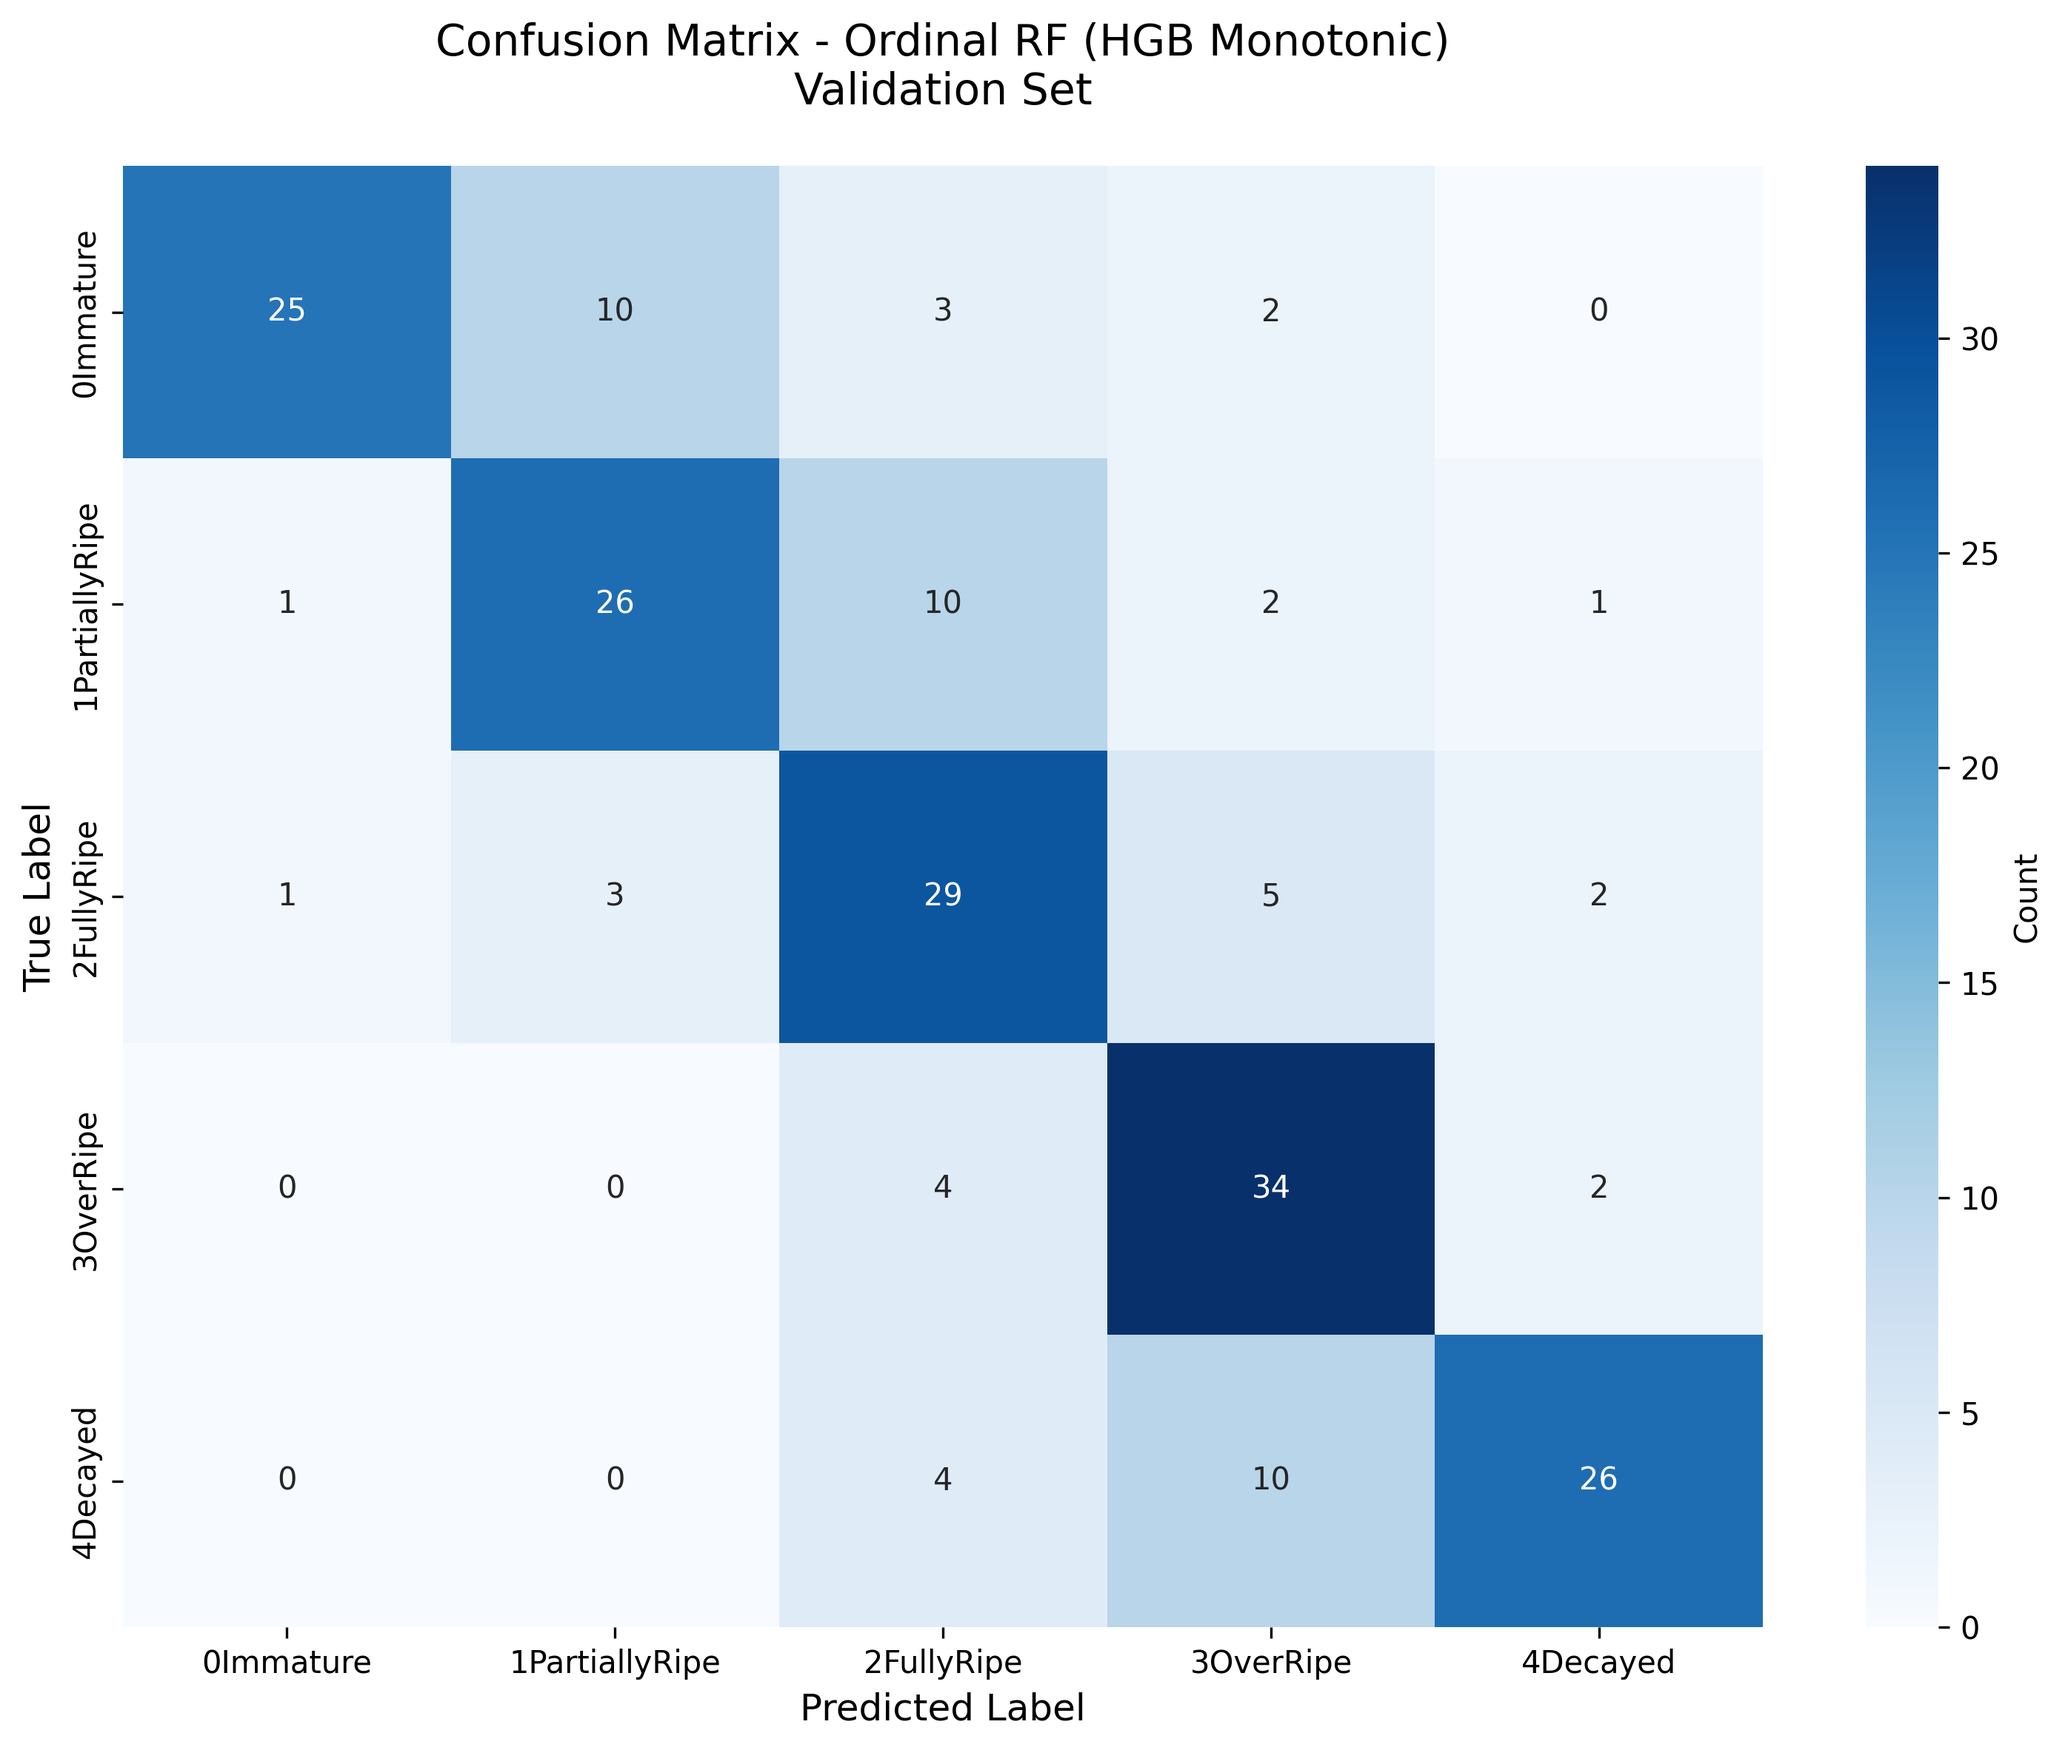
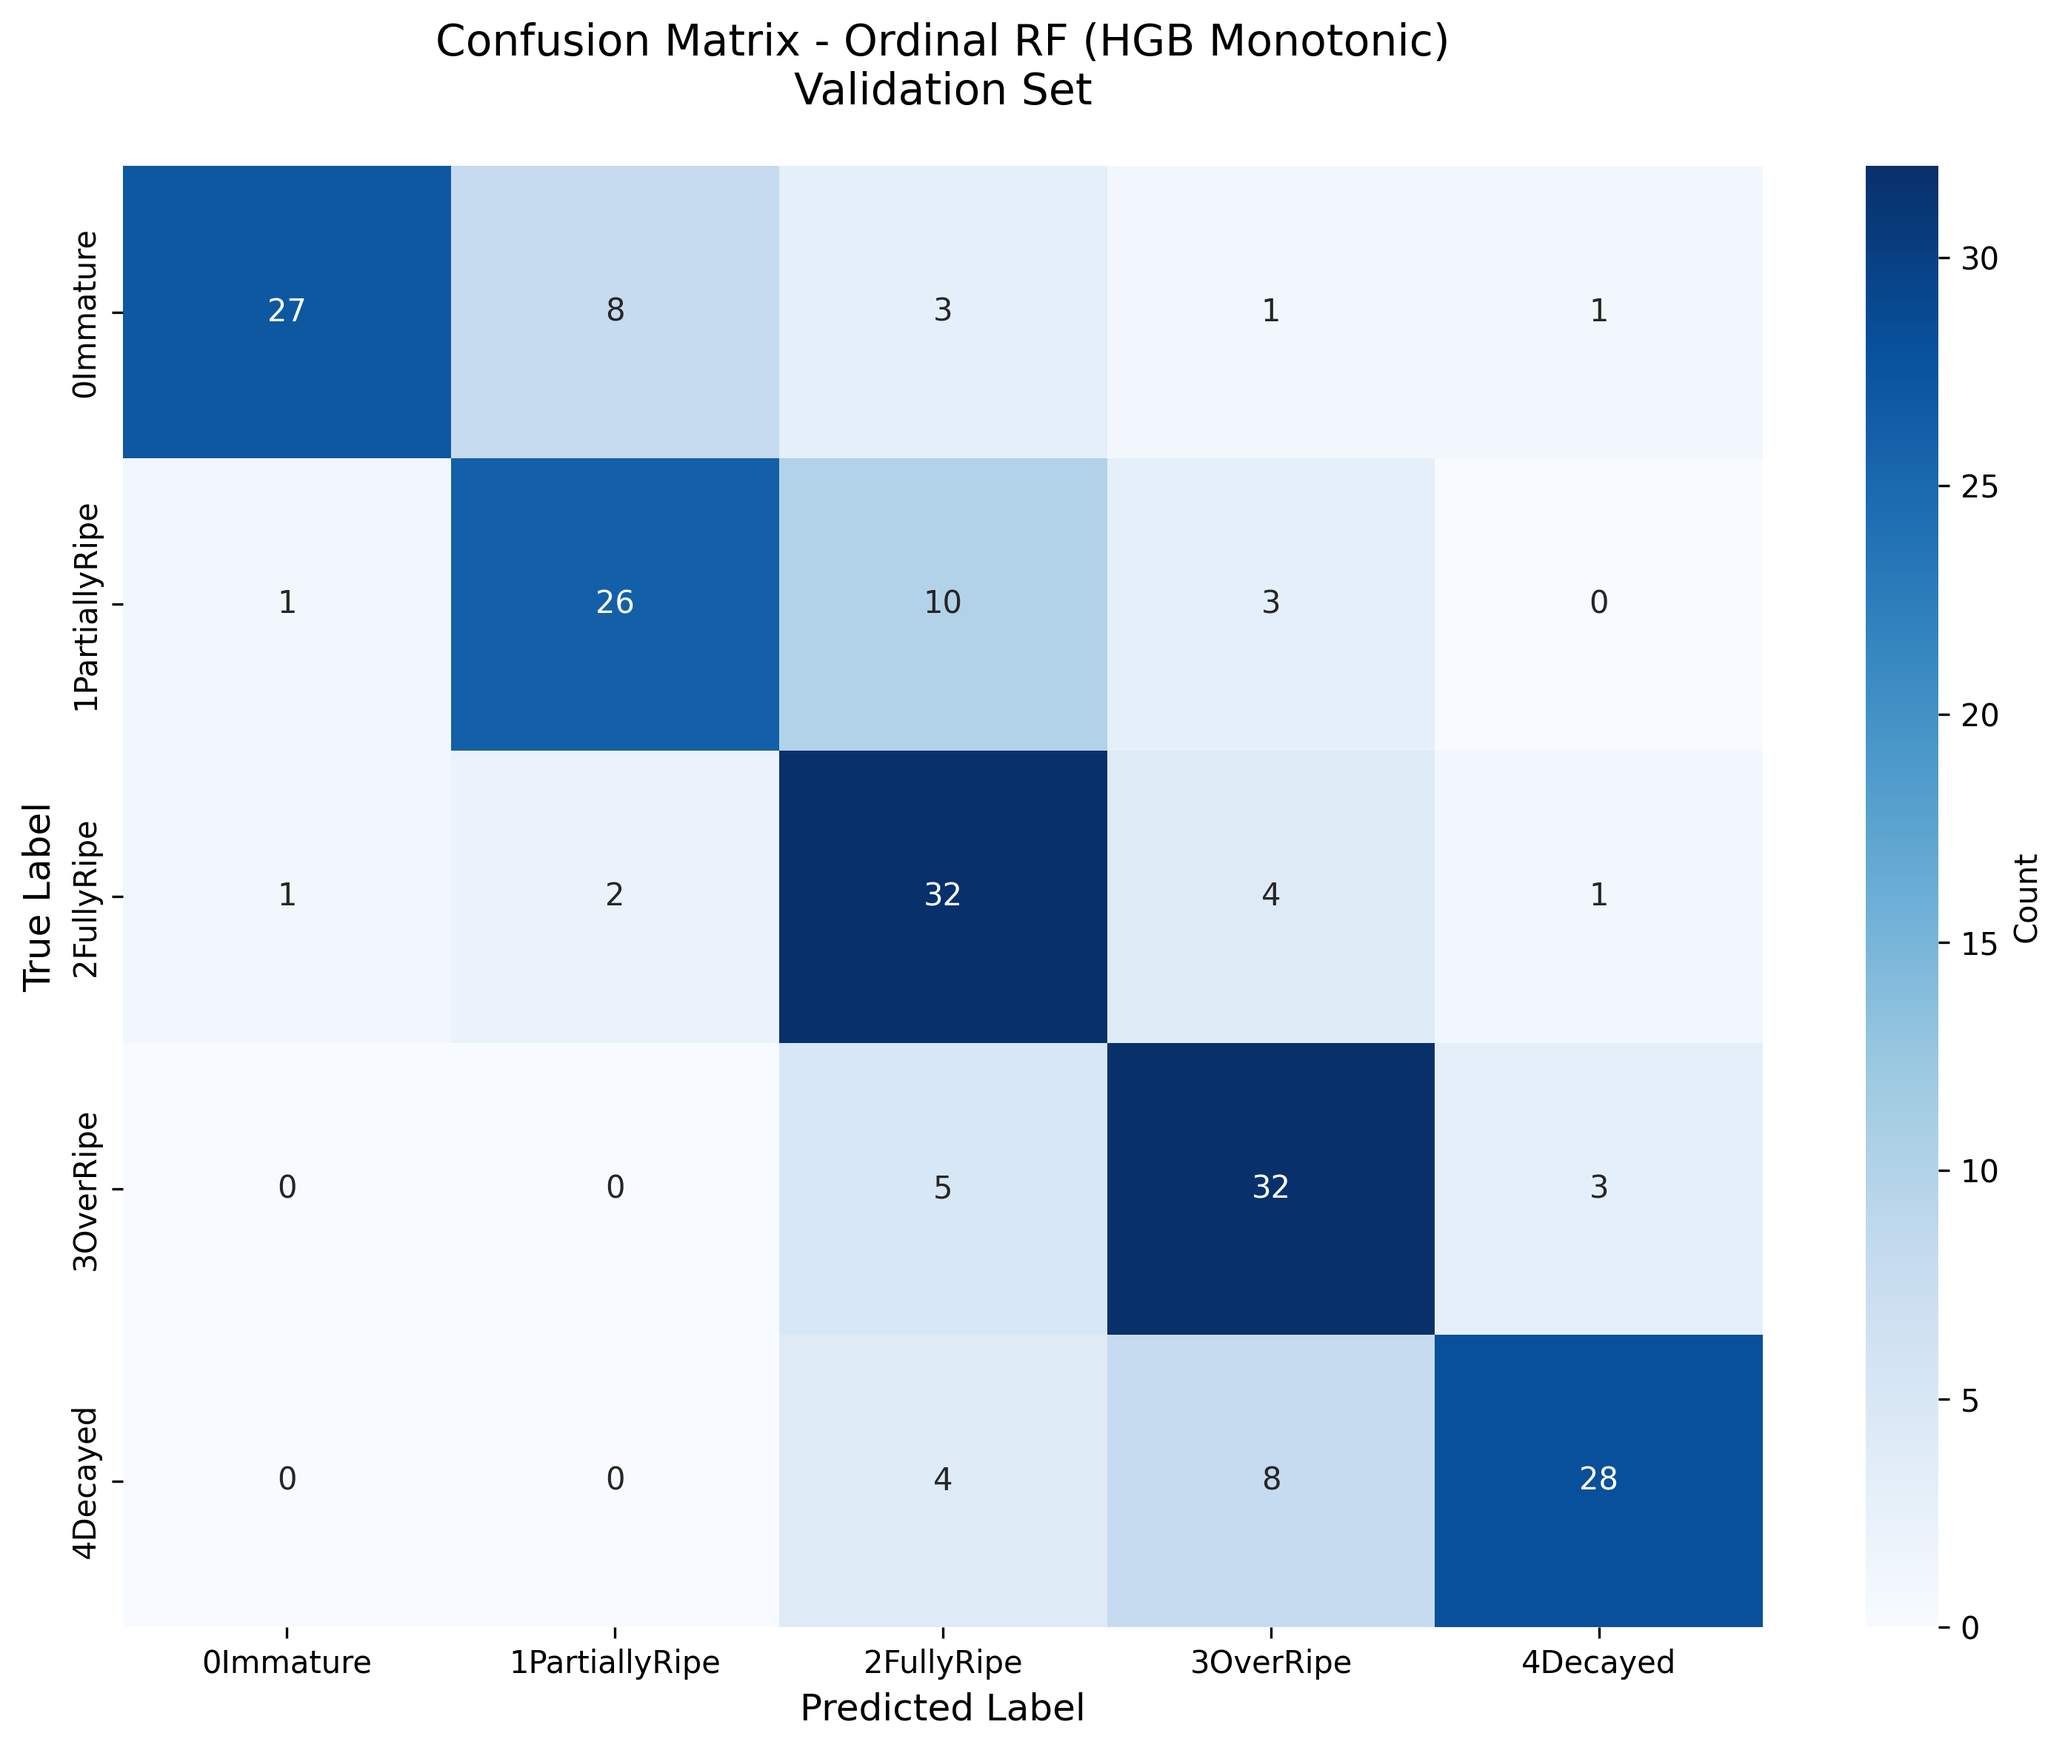
settled on the thre ordinal models to use

diff --git a/code/model_training/ordinal_gb_lightgbm.py b/code/model_training/ordinal_gb_lightgbm.py
@@ -52,25 +52,16 @@ def train_with_lightgbm(X: np.ndarray, y: np.ndarray, num_iterations: int = 100,
     # Create LightGBM dataset
     train_data = lgb.Dataset(X_scaled, label=y)
     
-    # Parameters for multiclass - optimized for better performance
+    # Simple, effective parameters for multiclass
     params = {
         'objective': 'multiclass',
         'num_class': len(np.unique(y)),
         'metric': 'multi_logloss',
         'learning_rate': learning_rate,
-        'num_leaves': 63,  # Increased for more complex trees
-        'max_depth': 8,  # Deeper trees
-        'min_data_in_leaf': 10,  # Minimum samples per leaf
-        'feature_fraction': 0.8,  # Use 80% of features per tree
-        'bagging_fraction': 0.8,  # Use 80% of samples per iteration
-        'bagging_freq': 5,  # Bagging every 5 iterations
-        'lambda_l1': 0.1,  # L1 regularization
-        'lambda_l2': 0.1,  # L2 regularization
-        'min_gain_to_split': 0.01,  # Minimum gain to make a split
+        'num_leaves': 31,
         'verbose': 1,
         'random_state': random_state,
-        'force_col_wise': True,  # Better for high-dimensional data
-        'boost_from_average': True  # Better initialization
+        'force_col_wise': True
     }
     
     print(f"Training LightGBM (multiclass, {num_iterations} iterations)...")

diff --git a/code/04_train_svm_mord.py b/code/04_train_svm_mord.py
@@ -35,7 +35,12 @@ def main(args):
     print(f"Classes: {sorted(set(y_train))}")
     
     # Train with mord LogisticIT
-    model = train_with_mord_logistic_it(X_train, y_train, alpha=args.alpha)
+    model = train_with_mord_logistic_it(
+        X_train, y_train, 
+        alpha=args.alpha, 
+        max_iter=args.max_iter,
+        verbose=args.verbose
+    )
     
     # Save
     os.makedirs(os.path.dirname(args.out) or '.', exist_ok=True)
@@ -49,6 +54,8 @@ if __name__ == '__main__':
     p.add_argument('--train', default='features/combined/combined_train.joblib', help='Path to training features')
     p.add_argument('--labels', default='features/combined/labels_train.joblib', help='Path to integer labels')
     p.add_argument('--out', default='features/model_svm_mord.joblib', help='Output model path')
-    p.add_argument('--alpha', type=float, default=1.0, help='Regularization parameter')
+    p.add_argument('--alpha', type=float, default=1.0, help='Regularization strength (higher = more regularization)')
+    p.add_argument('--max_iter', type=int, default=1000, help='Maximum iterations for convergence')
+    p.add_argument('--verbose', type=int, default=0, choices=[0, 1, 2], help='Verbosity level')
     args = p.parse_args()
     main(args)

diff --git a/code/model_training/ordinal_svm_mord.py b/code/model_training/ordinal_svm_mord.py
@@ -20,15 +20,21 @@ except ImportError:
     print("Warning: mord not installed. Run: pip install mord")
 
 
-def train_with_mord_logistic_it(X: np.ndarray, y: np.ndarray, alpha: float = 1.0):
+def train_with_mord_logistic_it(X: np.ndarray, y: np.ndarray, alpha: float = 1.0, 
+                                max_iter: int = 1000, verbose: int = 0):
     """
     Train using mord's LogisticIT (Immediate-Threshold variant).
     Ordinal regression approach that respects the ordering of classes.
+    
+    Parameters:
+    - alpha: Regularization strength (higher = more regularization)
+    - max_iter: Maximum iterations for convergence
+    - verbose: Verbosity level (0=silent, 1=some info, 2=detailed)
     """
     if not MORD_AVAILABLE:
         raise ImportError("mord not installed. Run: pip install mord")
     
-    clf = mord.LogisticIT(alpha=alpha)
+    clf = mord.LogisticIT(alpha=alpha, max_iter=max_iter, verbose=verbose)
     pipeline = Pipeline([
         ('scaler', StandardScaler()),
         ('ordinal', clf)

diff --git a/code/04_train_rf_mord.py b/code/04_train_rf_mord.py
@@ -64,7 +64,7 @@ if __name__ == '__main__':
     p.add_argument('--out', default='features/model_rf_mord.joblib', help='Output model path')
     p.add_argument('--method', choices=['mord', 'multi_rf', 'monotonic_hgb'], default='monotonic_hgb',
                    help='Training method: mord (LogisticAT), multi_rf (MultiOutput RF), monotonic_hgb (HGB with constraints)')
-    p.add_argument('--n_estimators', type=int, default=50, help='Number of trees/iterations')
+    p.add_argument('--n_estimators', type=int, default=100, help='Number of trees/iterations')
     p.add_argument('--random_state', type=int, default=42)
     args = p.parse_args()
     main(args)

diff --git a/code/05_evaluate_models.py b/code/05_evaluate_models.py
@@ -204,10 +204,6 @@ def main():
     
     # Models to evaluate (include integer SVM and Random Forest for comparison)
     models_to_evaluate = [
-        ('features/model_svm.joblib', 'Integer SVM'),
-        ('features/model_rf.joblib', 'Integer Random Forest'),
-        ('features/model_svm_ordinal.joblib', 'Ordinal SVM'),
-        ('features/model_gb_ordinal.joblib', 'Ordinal Gradient Boosting'),
         ('features/model_rf_mord.joblib', 'Ordinal RF (HGB Monotonic)'),
         ('features/model_svm_mord.joblib', 'Ordinal SVM (mord LogisticIT)'),
         ('features/model_gb_lightgbm.joblib', 'Ordinal GB (LightGBM)'),

diff --git a/code/04_train_gb_lightgbm.py b/code/04_train_gb_lightgbm.py
@@ -26,13 +26,13 @@ def main():
     parser.add_argument(
         '--n_iterations',
         type=int,
-        default=500,
-        help='Number of boosting iterations (default: 500)'
+        default=400,
+        help='Number of boosting iterations (default: 100)'
     )
     parser.add_argument(
         '--learning_rate',
         type=float,
-        default=0.1,
+        default=0.05,
         help='Learning rate (default: 0.1)'
     )
     parser.add_argument(
